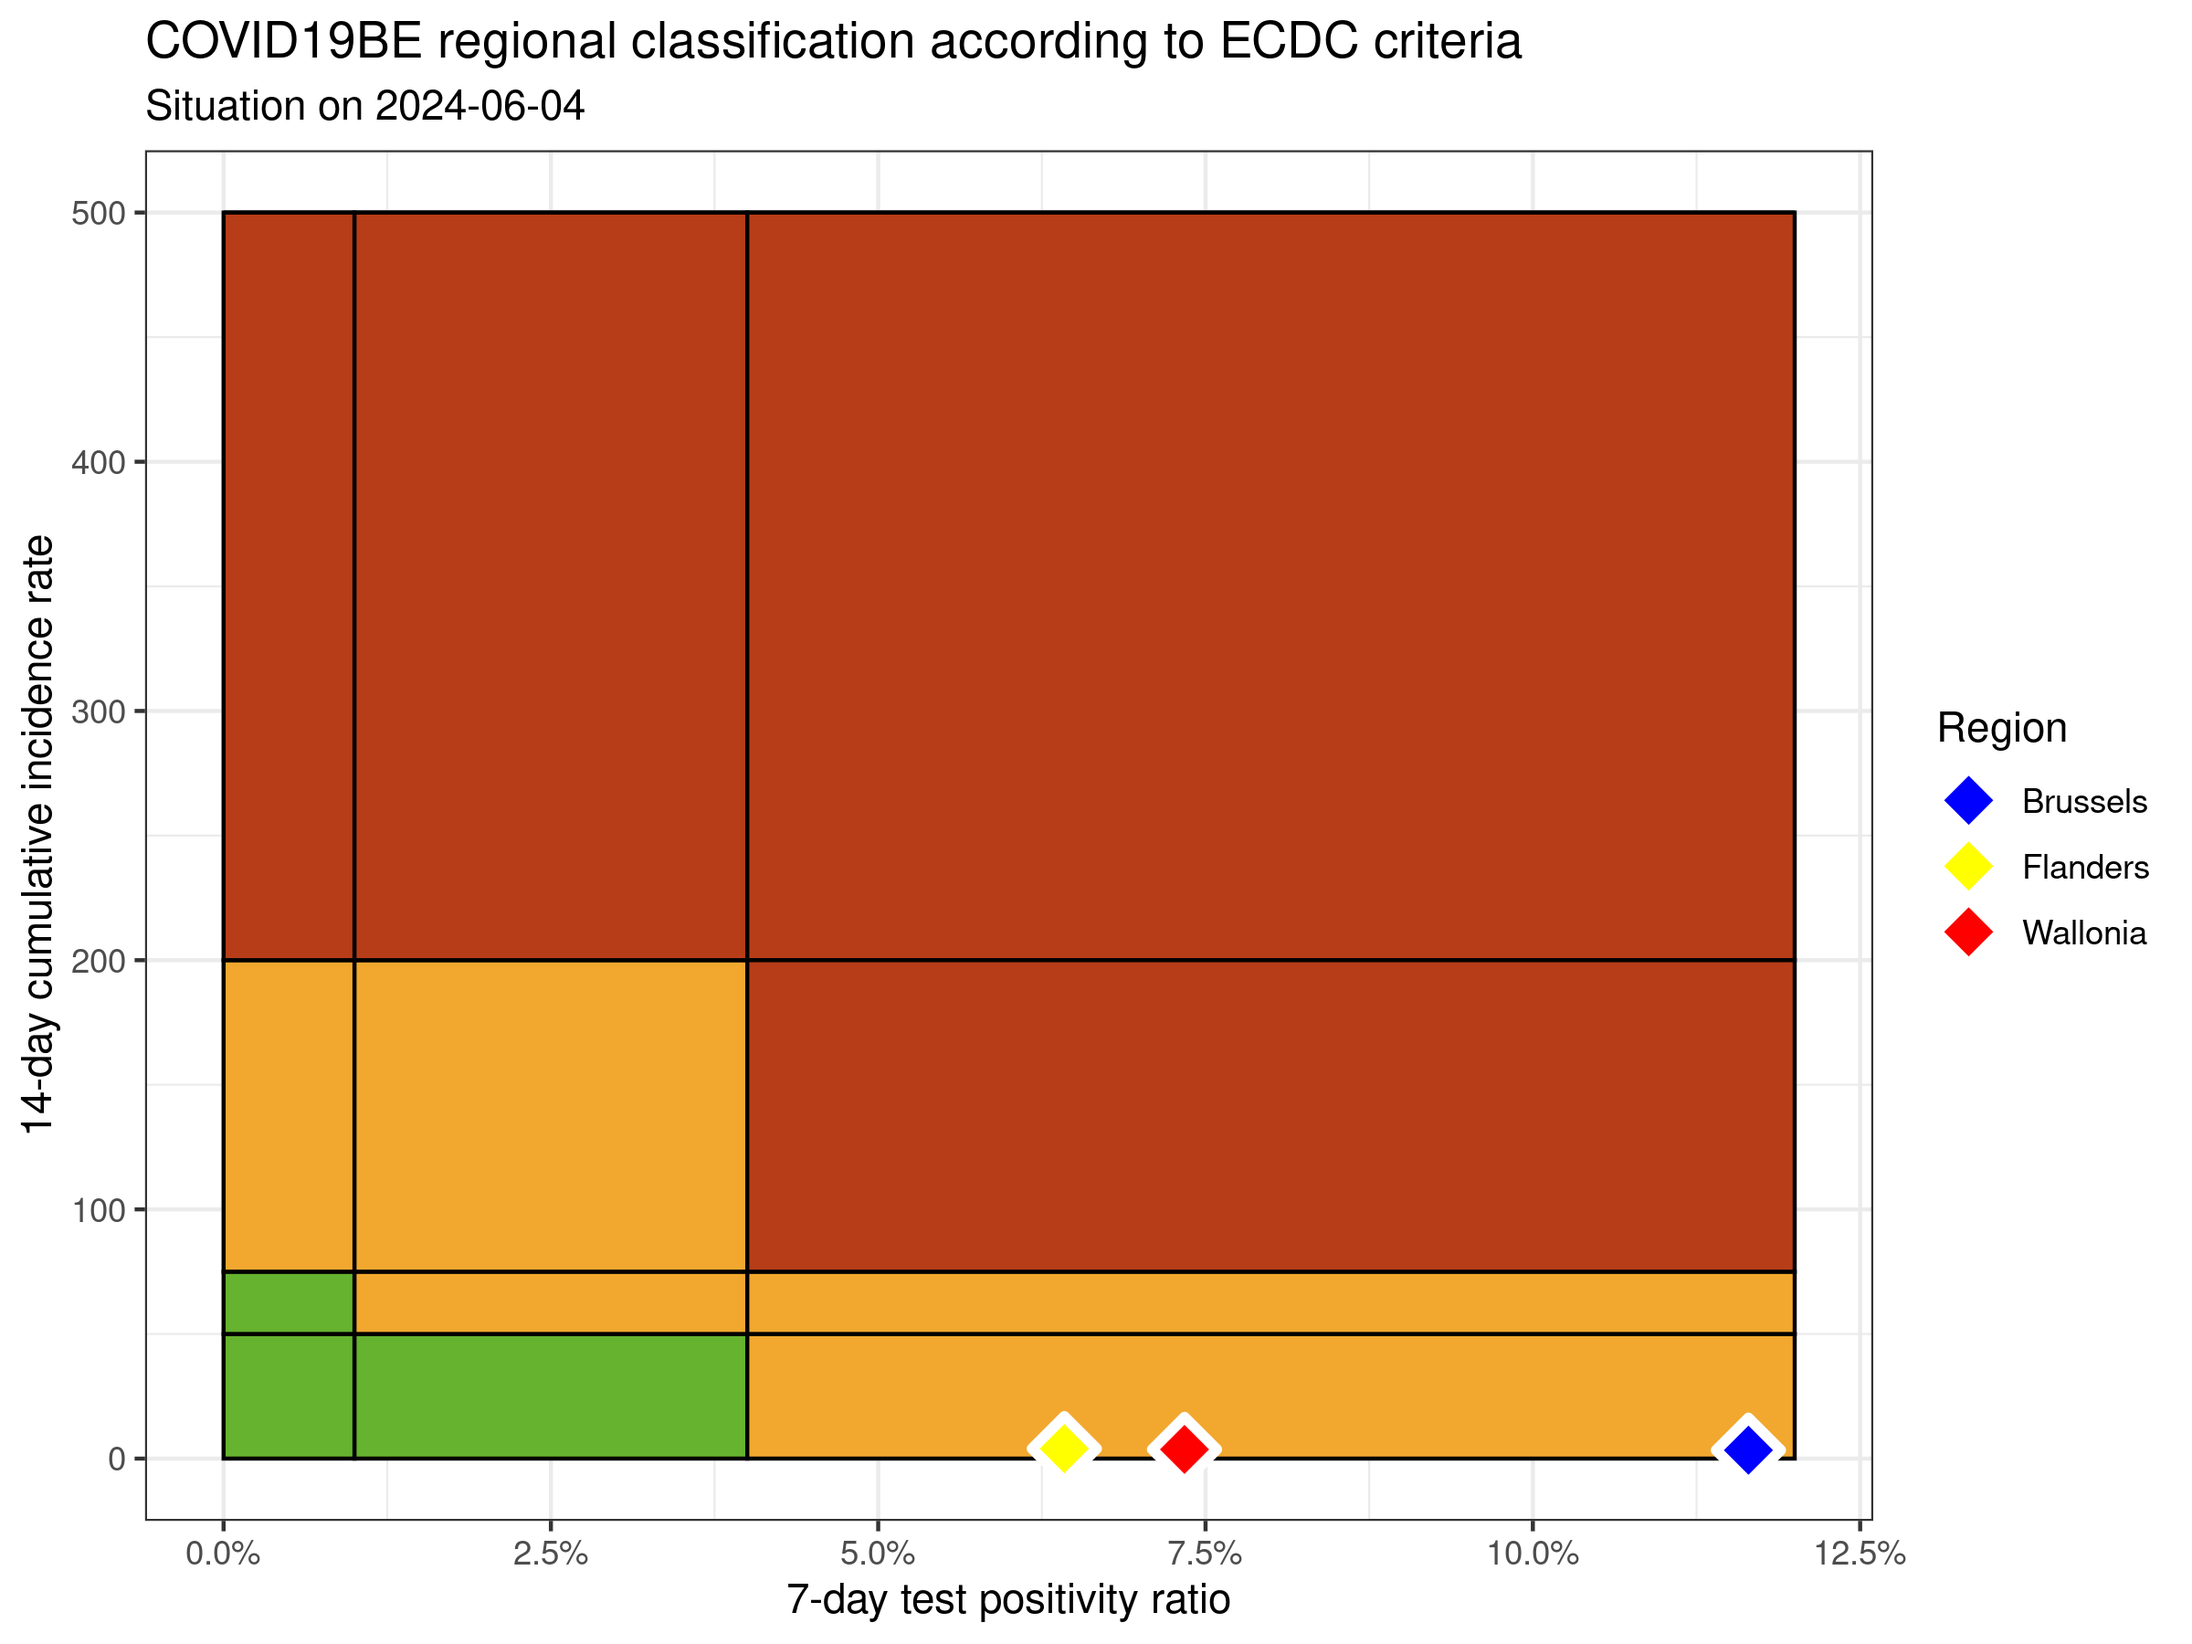
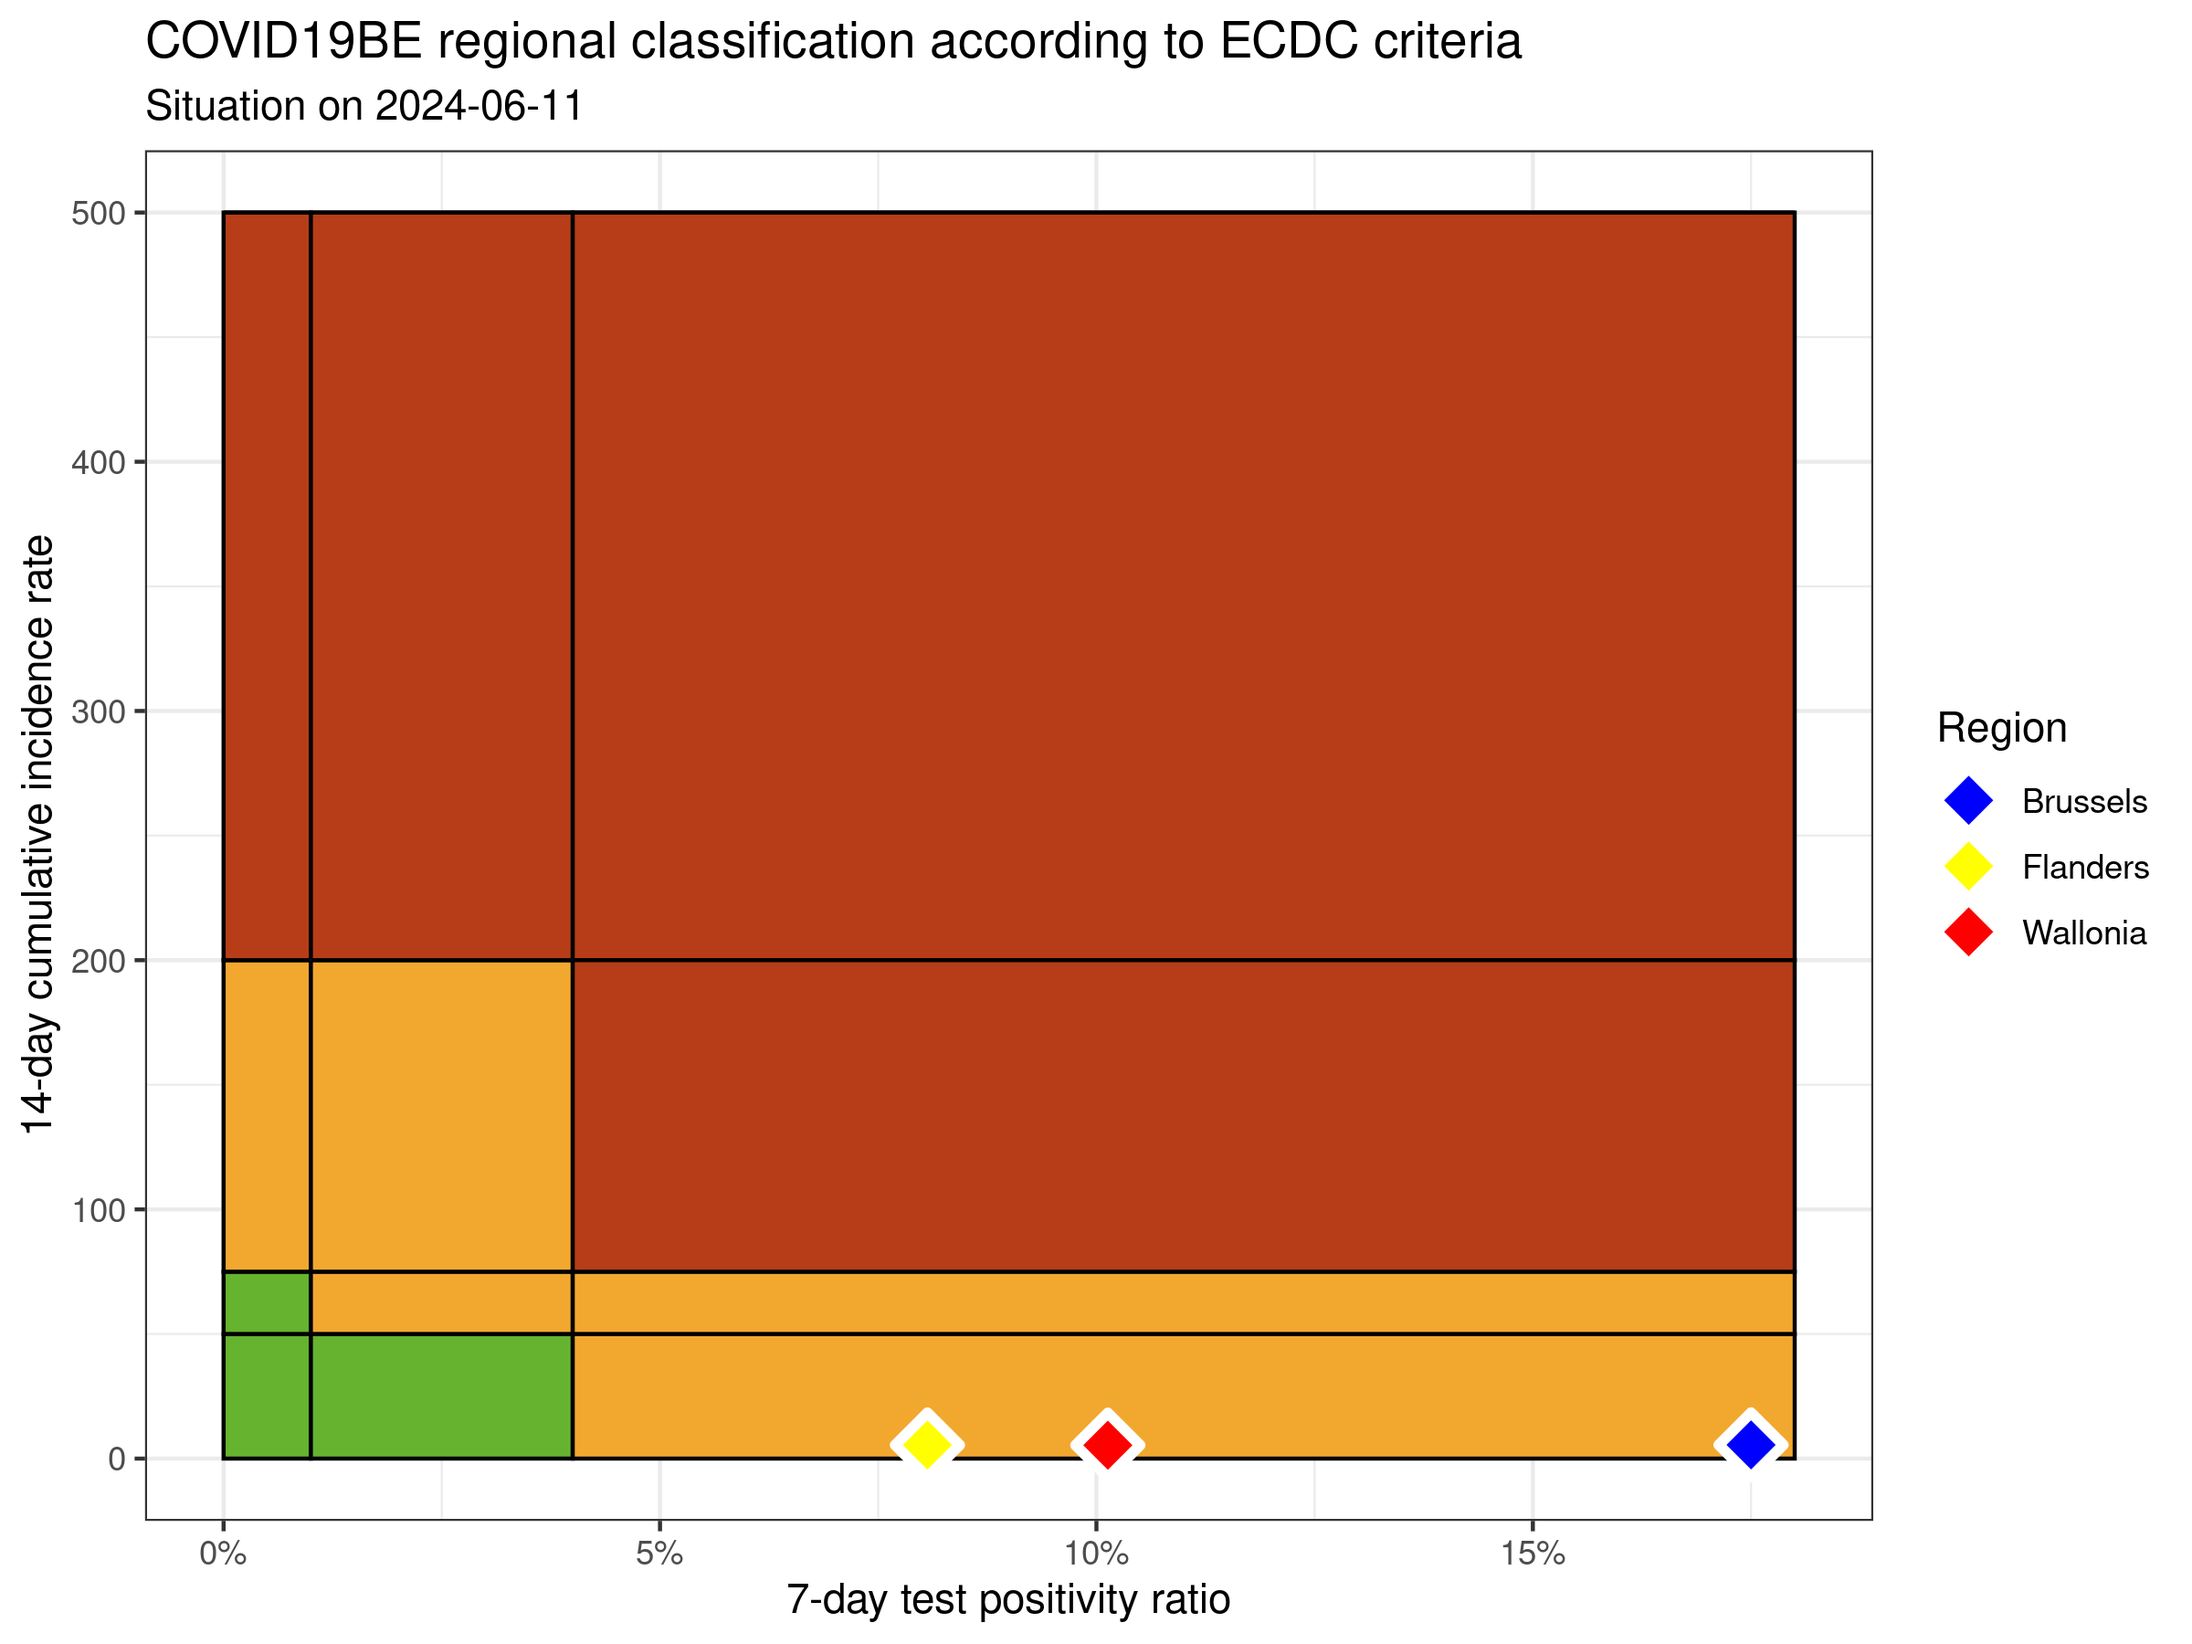
update situation

diff --git a/ecdc-trend/README.md b/ecdc-trend/README.md
@@ -11,9 +11,9 @@
 
 |          | INC14 | INC7 | TST7 | TST\_POS7 | REGION   |     POP | INC14\_RT |       PR7 |        GR |
 | :------- | ----: | ---: | ---: | --------: | :------- | ------: | --------: | --------: | --------: |
-| Brussels |    41 |   26 |  249 |        29 | Brussels | 1219970 |  3.360738 | 0.1164659 | 0.7333333 |
-| Flanders |   265 |  145 | 2585 |       166 | Flanders | 6653062 |  3.983128 | 0.0642166 | 0.2083333 |
-| Wallonia |   134 |   77 | 1199 |        88 | Wallonia | 3648206 |  3.673038 | 0.0733945 | 0.3508772 |
+| Brussels |    67 |   41 |  240 |        42 | Brussels | 1219970 |  5.491938 | 0.1750000 | 0.5769231 |
+| Flanders |   362 |  217 | 2877 |       232 | Flanders | 6653062 |  5.441104 | 0.0806396 | 0.4965517 |
+| Wallonia |   196 |  119 | 1224 |       124 | Wallonia | 3648206 |  5.372504 | 0.1013072 | 0.5454545 |
 
 ### Read more
 
